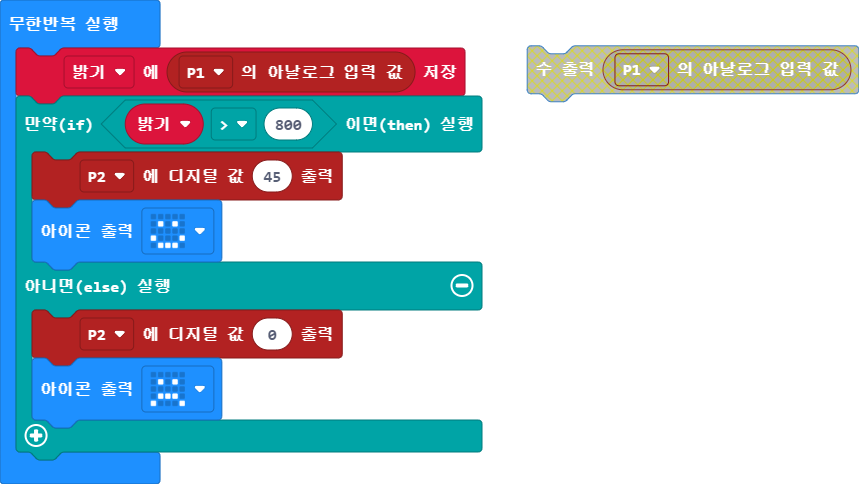
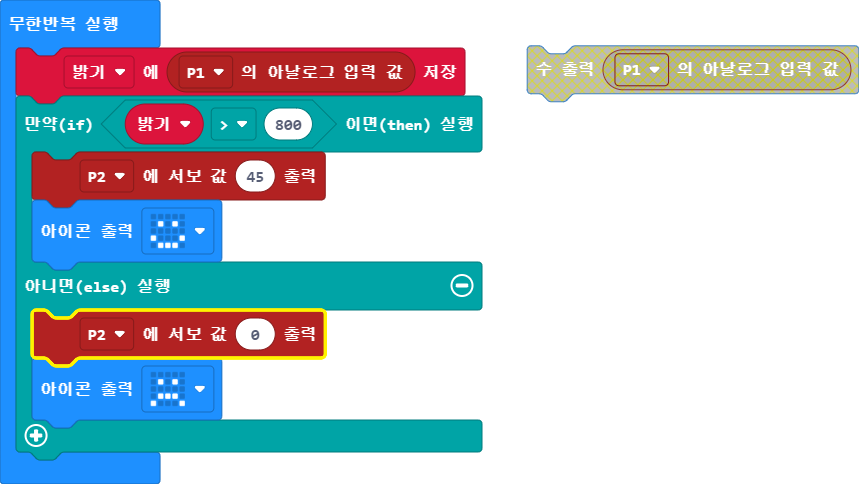
main.blocks, main.ts 업데이트하기

diff --git a/main.ts b/main.ts
@@ -2,10 +2,10 @@ let 밝기 = 0
 basic.forever(function () {
     밝기 = pins.analogReadPin(AnalogPin.P1)
     if (밝기 > 800) {
-        pins.digitalWritePin(DigitalPin.P2, 45)
+        pins.servoWritePin(AnalogPin.P2, 45)
         basic.showIcon(IconNames.Happy)
     } else {
-        pins.digitalWritePin(DigitalPin.P2, 0)
+        pins.servoWritePin(AnalogPin.P2, 0)
         basic.showIcon(IconNames.Sad)
     }
 })
